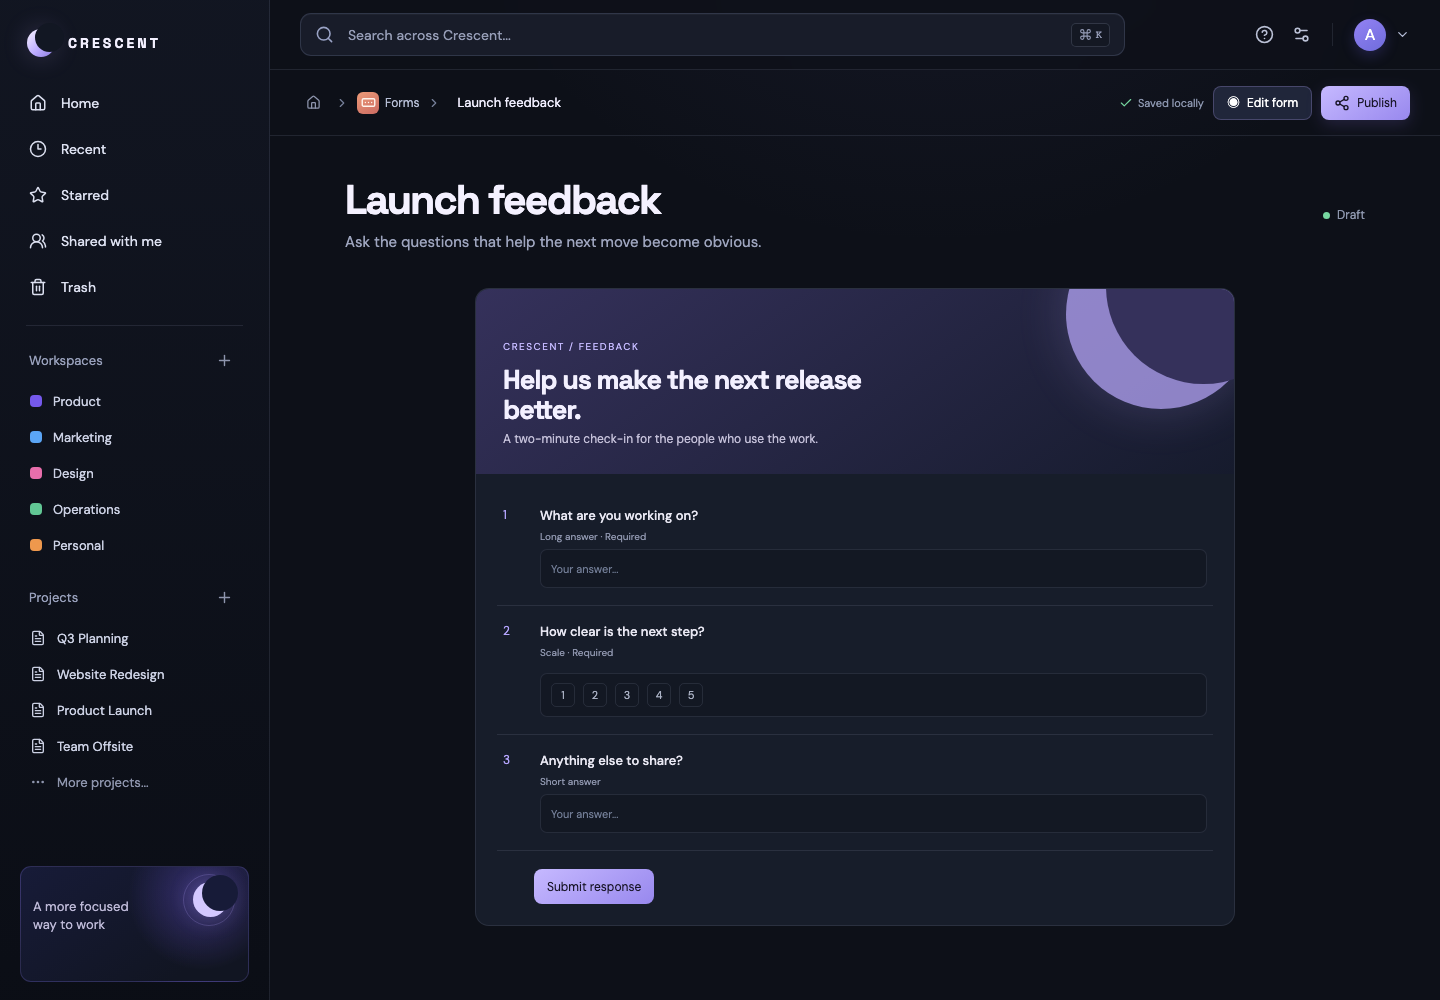
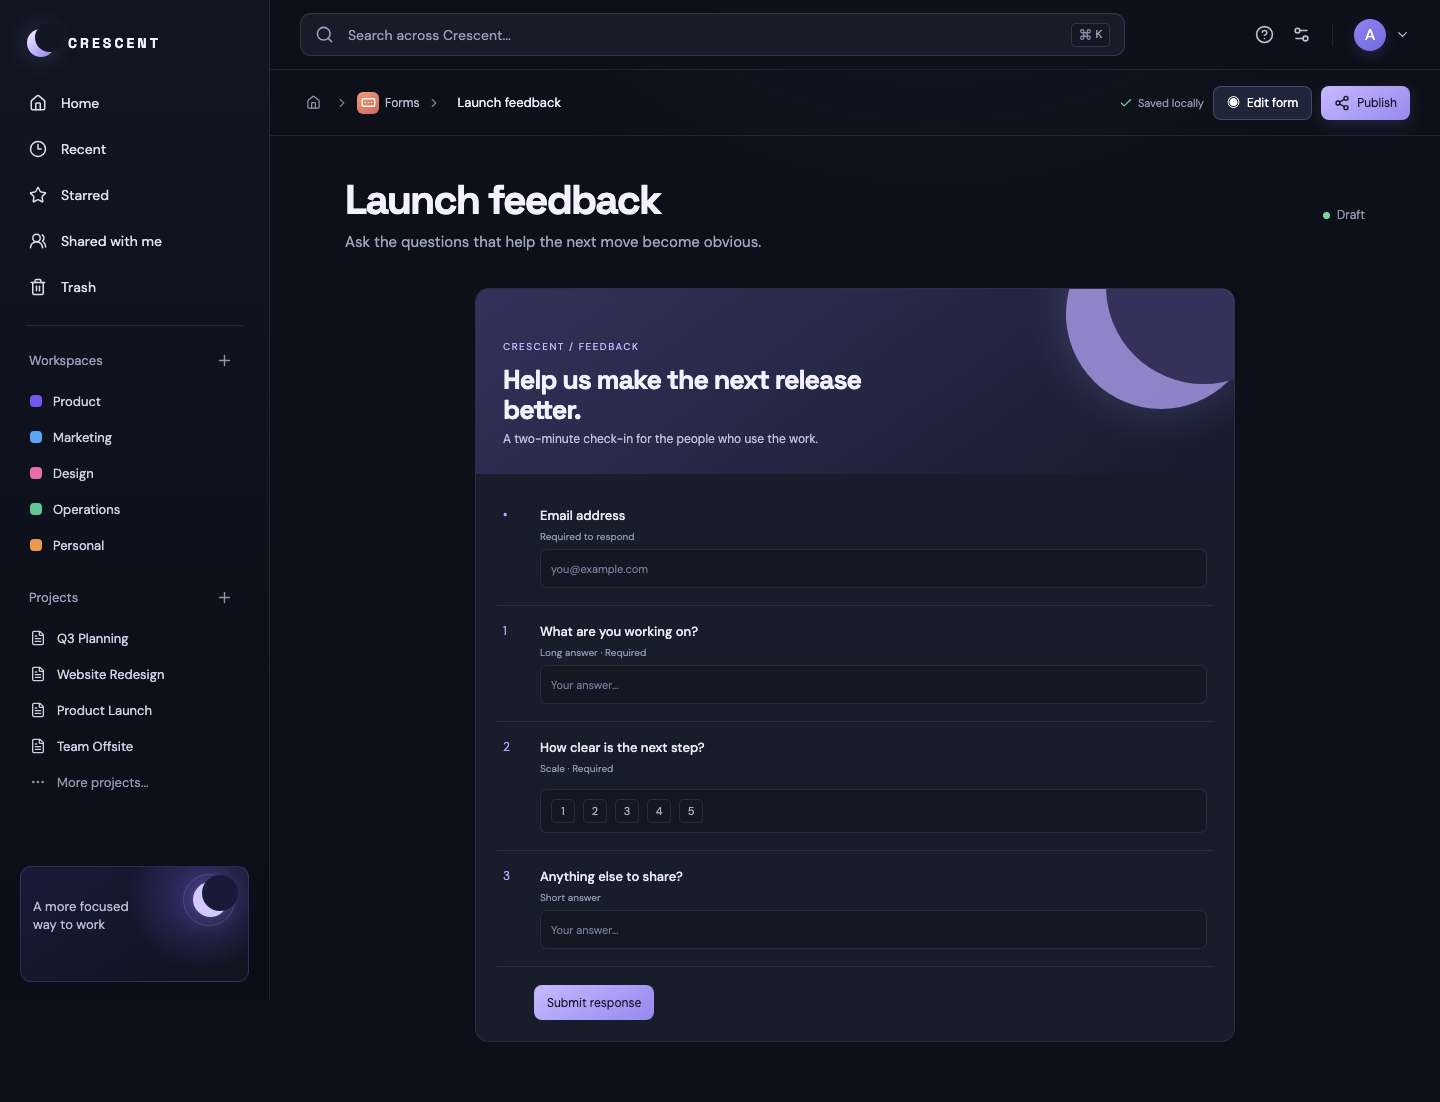
docs: refresh forms preview

diff --git a/README.md b/README.md
@@ -4,7 +4,7 @@ An all-in-one productivity workspace built to keep the work in one calm, consist
 
 ## Current release
 
-**v0.1.41 — Tasks can move to Trash**
+**v0.1.42 — Forms response preview refreshed**
 
 The first release establishes the Crescent product shell and a local-first suite experience:
 
@@ -41,6 +41,7 @@ The first release establishes the Crescent product shell and a local-first suite
 - Docs outline buttons now scroll to the matching saved heading in the document
 - Forms email collection adds a respondent email field, and one-response mode disables duplicate submission after saving
 - Tasks now have a real delete action that moves the item to the local Trash surface and survives reloads
+- Refreshed the committed Forms Preview screenshot to show email collection and respondent-facing controls
 - Home’s Continue working and Recent shelves now use current local Docs, Sheets, Slides, and Notes titles
 - Drive’s Recent files shelf mirrors the same live workspace records, so creating a draft no longer leaves stale demo cards behind
 - Settings can download a versioned JSON backup of the local workspace and restore it later on the same device

diff --git a/CHANGELOG.md b/CHANGELOG.md
@@ -1,5 +1,19 @@
 # Changelog
 
+## v0.1.42 — Forms response preview refreshed
+
+Published September 9, 2026.
+
+### Changed
+
+- Refreshed `docs/preview/forms-preview.png` with email collection enabled in the respondent-facing Preview mode.
+
+### Verification
+
+- Captured the screenshot from the running Vite app after enabling email collection and entering Preview, then visually reviewed it.
+- `npm run lint` passes with zero warnings.
+- `npm run build` passes.
+
 ## v0.1.41 — Tasks can move to Trash
 
 Published September 9, 2026.
